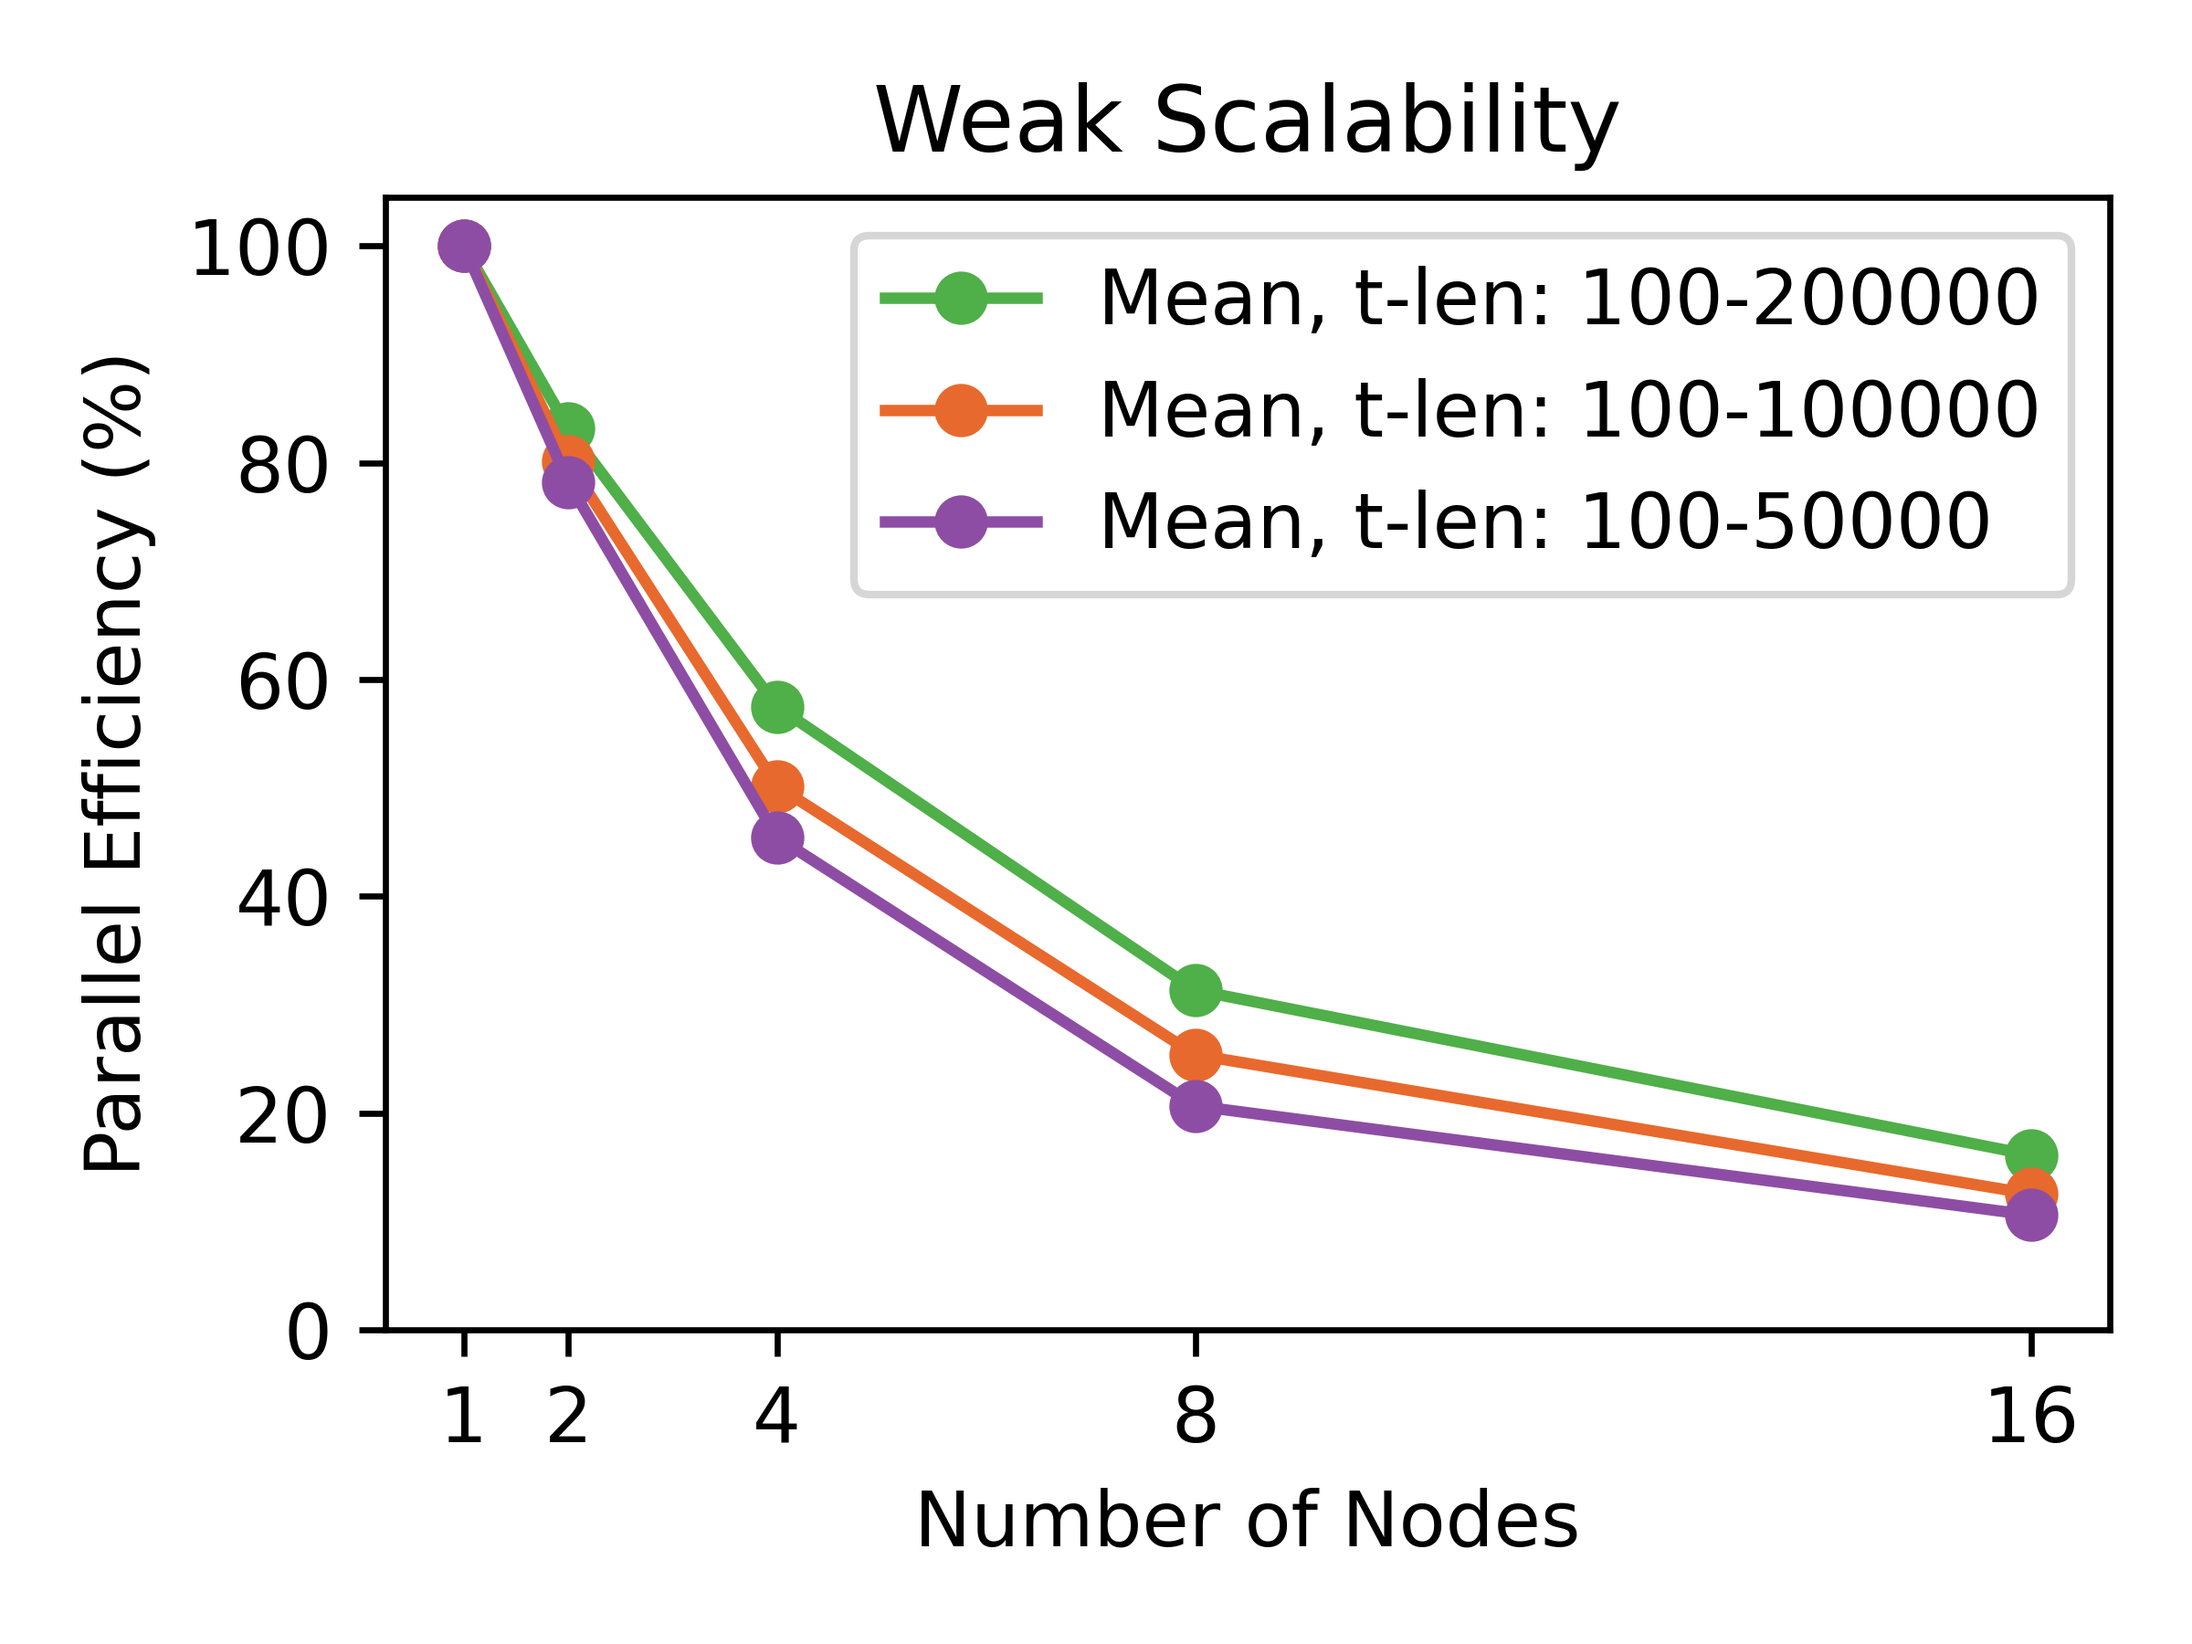
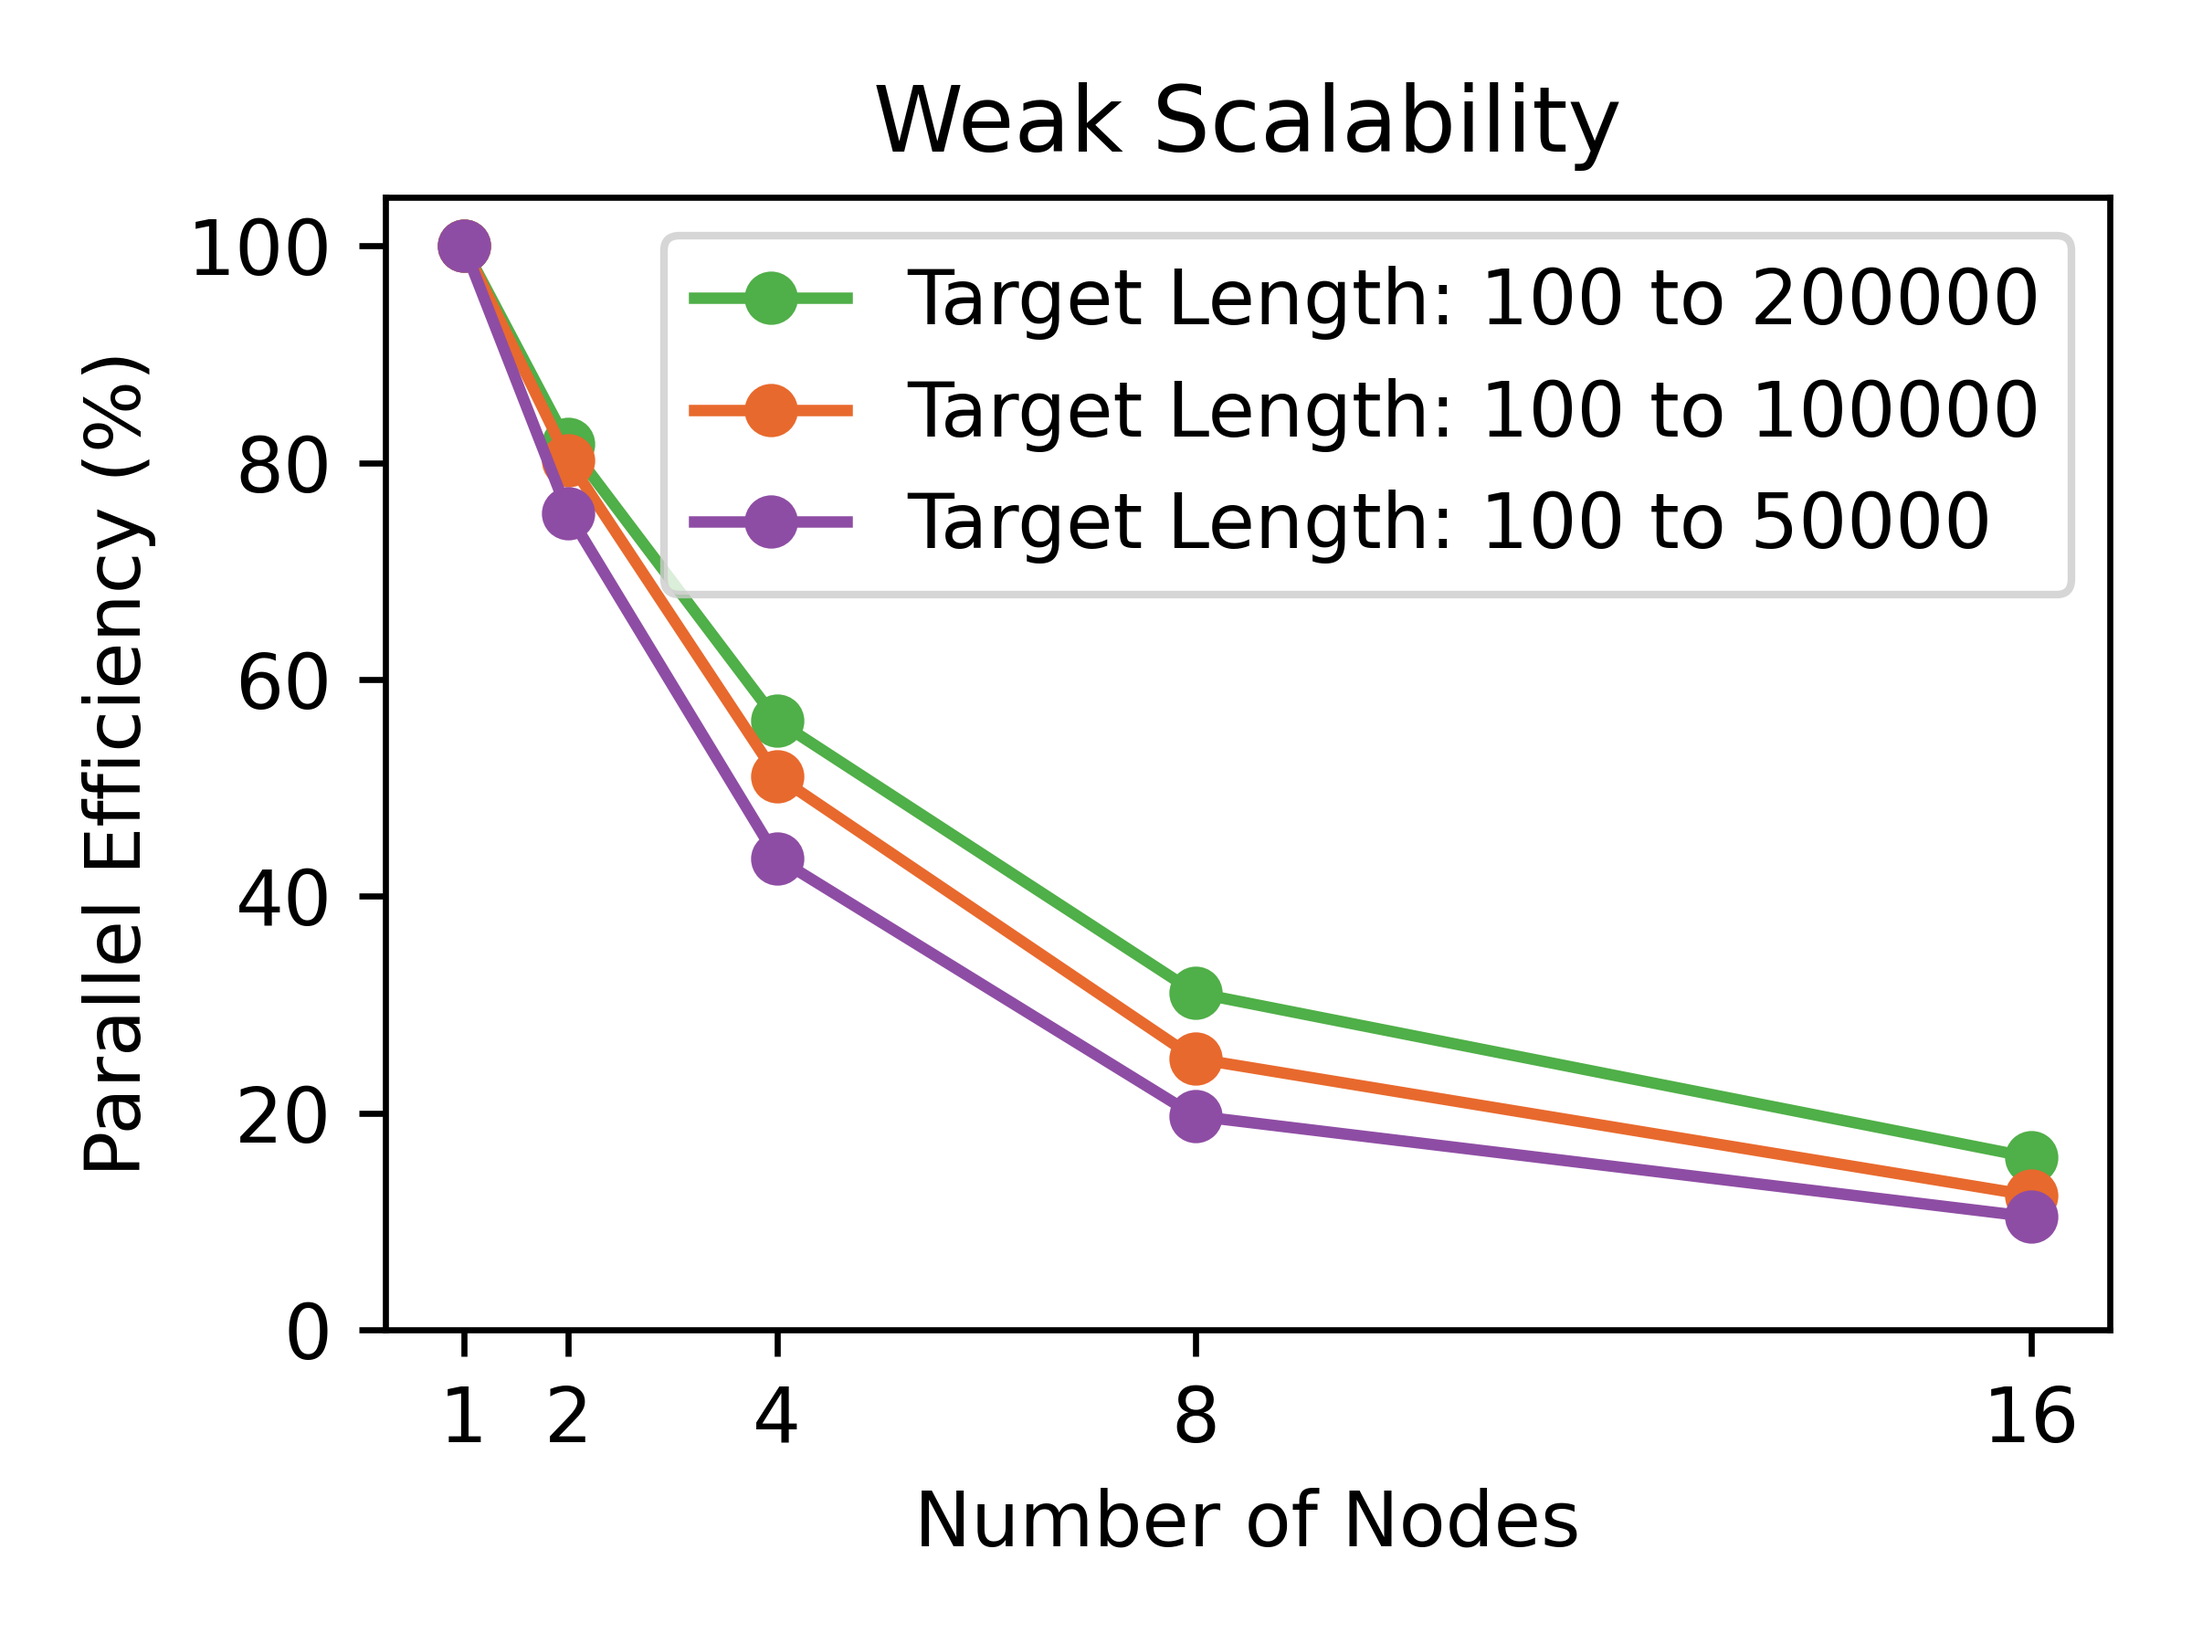
Swap Amdahl's plot from 8000 to 32000 and generate plots

Changed region(s): [[0.2188, 0.1244, 0.9375, 0.7467], [0.5, 0.56, 0.5312, 0.5911]]

diff --git a/plotting/plot_strong_scalability_percentage.py b/plotting/plot_strong_scalability_percentage.py
@@ -58,13 +58,13 @@ colors = ['#0077B3', '#4FAF48', '#E8692D', '#8E4DA4', '#F2BA2F', '#D4CAC8', '#57
 plt.figure(figsize=(4, 3), dpi=600)
 
 (s, n, n_statistic, n_statistic_normalized) = parse_results('./DAS5/strong_scalability_988e281_synthetic_32000/result_2024-01-02_12-06-09_combined.json')
-plt.plot(s, n_statistic_normalized, color=colors[0], label=f"Synthetic 32.000x", marker='o', linestyle='-')
+plt.plot(s, n_statistic_normalized, color=colors[1], label=f"Synthetic 32.000", marker='o', linestyle='-')
 
 (s, n, n_statistic, n_statistic_normalized) = parse_results('./DAS5/strong_scalability_988e281_synthetic_16000/result_2024-01-02_10-10-23.json')
-plt.plot(s, n_statistic_normalized, color=colors[1], label=f"Synthetic 16.000x", marker='o', linestyle='-')
+plt.plot(s, n_statistic_normalized, color=colors[0], label=f"Synthetic 16.000", marker='o', linestyle='-')
 
 (s, n, n_statistic, n_statistic_normalized) = parse_results('./DAS5/strong_scalability_4a8ac27_synthetic_8000/result_2023-12-27_14-34-28.json')
-plt.plot(s, n_statistic_normalized, color=colors[2], label=f"Synthetic 8.000x", marker='o', linestyle='-')
+plt.plot(s, n_statistic_normalized, color=colors[2], label=f"Synthetic 8.000", marker='o', linestyle='-')
 
 (s, n, n_statistic, n_statistic_normalized) = parse_results('./DAS5/strong_scalability_f748803_XL/result_2023-12-26_12-49-59.json')
 plt.plot(s, n_statistic_normalized, color=colors[3], label=f"Extra Large", marker='o', linestyle='-')

diff --git a/plotting/plot_strong_scalability_amdahls.py b/plotting/plot_strong_scalability_amdahls.py
@@ -11,7 +11,7 @@ def amdahl(s, p):
 ### PARSE RESULT FILE ###
 
 # Path to your JSON file
-json_file_path = './DAS5/strong_scalability_4a8ac27_synthetic_8000/result_2023-12-27_14-34-28.json'
+json_file_path = './DAS5/strong_scalability_988e281_synthetic_32000/result_2024-01-02_12-06-09_combined.json'
 
 # Load JSON data
 with open(json_file_path, 'r') as file:
@@ -78,7 +78,7 @@ plt.plot(n1, amdahl(n1, *popt), color=colors[1], ls="--", label=f"Amdahl's Law (
 plt.plot([s[0], s[-1]], [s[0], s[-1]], color=colors[0], label="Linear Speedup")
 plt.legend()
 
-plt.title("Strong Scalability")
+plt.title("Strong Scalability (32.000 alignments)")
 plt.xlabel("Number of Nodes")
 plt.ylabel("Speed up")
 plt.xticks([2 ** i for i in range(5)])

diff --git a/plotting/plot_weak_scalability_percentage.py b/plotting/plot_weak_scalability_percentage.py
@@ -65,7 +65,7 @@ weak_scalability_result_paths = [
 
 for index, path in enumerate(weak_scalability_result_paths):
     (s, n, n_statistic, n_statistic_normalized) = parse_results(path)
-    plt.plot(s, n_statistic_normalized, color=colors[index + 1], label=f"t-len: 100-{200000 // 2**(index)}", marker='o', linestyle='-')
+    plt.plot(s, n_statistic_normalized, color=colors[index + 1], label=f"Target Length: 100 to {200000 // 2**(index)}", marker='o', linestyle='-')
 
 plt.legend()
 plt.title("Weak Scalability")
